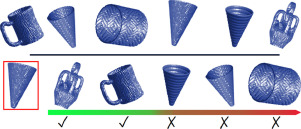
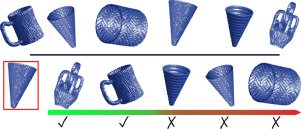
optimize img

diff --git a/_pages/about.md b/_pages/about.md
@@ -6,7 +6,7 @@ subtitle:
 
 profile:
   align: right
-  image: portrait.png
+  image: portrait_v1.JPG
   image_circular: false # crops the image to make it circular
   more_info: >
     <p>Computer Vision Lab</p>
